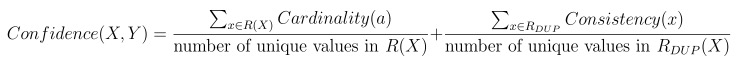
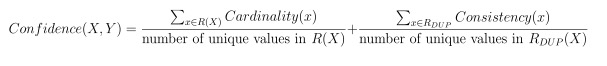
Minor fix

Changed region(s): [[0.0, 0.1212, 0.9786, 0.7879]]

diff --git a/project4/README.md b/project4/README.md
@@ -121,7 +121,7 @@ From *S*, we observe that X->Y. However, *Y->X does not hold*. This is because 3
 
 As we know that data in each of these tables could be collected from multiple sources, it is prone to errors during various stages of data acquisition and processing. However, in spite of containing some errors, it could still be the case that two attributes or sets of attributes are associated with a reasonable confidence. To accommodate such cases we define the notion of **fuzzy functional dependency** for this project. 
 
-For illustrating fuzzy functional dependency consider the following relation *R* having two attributes X and Y. We observe that *neither* X->Y nor Y->X holds in R. Further, let us define R(X) and R(Y) as attribute X and Y of relation R respectively. 
+For illustrating fuzzy functional dependency, consider the following relation *R* having two attributes X and Y. We observe that *neither* X->Y nor Y->X holds in R. Further, let us define R(X) and R(Y) as values of attribute X and Y of relation R respectively. 
 
 **Relation R**
 
@@ -139,9 +139,9 @@ For illustrating fuzzy functional dependency consider the following relation *R*
 | 7 | 16|
 
 
-Let us assume that we are interested to check if X and Y have a fuzzy functional dependency between each other in R i.e. Y is fuzzy functional dependent on X (X->Y). In this case, X is the first attribute and Y is the second attribute. 
+Let us say that we want to check if X and Y have a fuzzy functional dependency between each other in R i.e. Y is fuzzy functional dependent on X (X->Y). In this case, X is the first attribute and Y is the second attribute. 
 
-Further, let us define R<sub>DUP</sub>, while considering X->Y, as the relation obtained from R that retains all duplicates defined on the first attribute (X). We define duplicates in two ways in the context of X->Y:
+Further, let us define R<sub>DUP</sub>, while considering X->Y, as the relation obtained from R that *only* retains all duplicates defined on the first attribute (X). We define duplicates in two ways in the context of X->Y:
 	
 1. x appears multiple times with the same y : e.g. x=3 (3,3)
 2. x appears multiple times with different y's : e.g. x=1 (1,2),(1,3),(1,4), x=2 (2,3),(2,3),(2,4)
@@ -162,9 +162,9 @@ For the above shown relation R, the corresponding R<sub>DUP</sub> will be as fol
 | 3 | 3 |
 | 3 | 3 |
 
+Observe that the unique values corresponding to R(X) do not show up in R<sub>DUP</sub>.
 
-
-Let us define Cardinality(x) *for each distinct* value x of attribute R(X) *on relation R* as follows,
+Let us define Cardinality(x) *for each distinct* value x of R(X) as follows,
 
 <!---
 <img src="https://latex.codecogs.com/svg.latex?Cardinality(x)=\frac{1}{\text{number of distinct (x,y) pairs}}" /> 
@@ -174,7 +174,7 @@ Let us define Cardinality(x) *for each distinct* value x of attribute R(X) *on r
 
 For Relation *R*, Cardinality(1) = ⅓ [Presence of (1,2), (1,3), (1,4)], Cardinality(2) = ½ [Presence of (2,3), (2,4)] and Cardinality(7) = 1 [Presence of (7,16)]. We consider only the unique pairs of the form (x,y) while defining Cardinality. Further, cardinality is defined on the original relation R. 
 
-Let us define Consistency(x) *for each distinct* value x of attribute R<sub>DUP</sub>(x) as follows,
+Let us define Consistency(x) *for each distinct* value x of R<sub>DUP</sub>(x) as follows,
 
 <!---
 <img src="https://latex.codecogs.com/svg.latex?Consistency(x)=\frac{\text{maximum number of times x occurs with some y in }  R_{DUP}}{\text{total number of (x,y) pairs in }R_{DUP}}" />
@@ -187,7 +187,7 @@ For Relation *R<sub>DUP</sub>*, Consistency(1)=⅓ [1 occurs once each with 2, 3
 Using the above definitions, we compute Confidence(X,Y) as follows,          
 
 <!---
-<img src="https://latex.codecogs.com/svg.latex?Confidence(X,Y)=\frac{\sum_{x \in R(X)} Cardinality(a)}{\text{number of unique values in }R(X)}   + \frac{\sum_{x \in R_{DUP}} Consistency(x)}{\text{number of unique values in }R_{DUP}(X)}" />
+<img src="https://latex.codecogs.com/svg.latex?Confidence(X,Y)=\frac{\sum_{x \in R(X)} Cardinality(x)}{\text{number of unique values in }R(X)}   + \frac{\sum_{x \in R_{DUP}} Consistency(x)}{\text{number of unique values in }R_{DUP}(X)}" />
 --->
 
 ![](./eqn/eqn3.jpeg)
@@ -205,12 +205,12 @@ We set the threshold based on the application requirement. *For the purpose of t
 
 #### Coding Details:
 
-We have provided you with a package `functionaldependency` with the following files:
+For this problem, we have provided you with the following files:
 
-1. **src/Test.java**: Computes and prints all the pairs that have a fuzzy functional dependency on each other using jdbc.
+1. **functionaldependncy/Test.java**: Computes and prints all the pairs that have a fuzzy functional dependency on each other using jdbc.
 2. **populate-fd.sql**: Loads `functionaldependency/data.csv` into `q3db` database. 
 
-`q3db` is already populated with the dataset. You can check it using 
+Note that `q3db` is already populated with the dataset. You can check it using: 
 
 ```
 $ psql q3db
@@ -233,13 +233,13 @@ $ java -cp functionaldependency/postgresql-42.2.2.jre7.jar:. functionaldependenc
 1. Please do not modify anything else.
 
 
-##Questions to answered on ELMS
+## Questions to answered on ELMS
 			 
 Based on your understanding of fuzzy functional dependency answer the following questions: 
 
 1. A high cardinality score is assigned to ‘x’ in X if it occurs with different ‘y’ values in Y. (True or False)
 
-2. A high cardinality score is assigned to ‘x’ in X if it occurs with exactly one of the ‘y’ values multiple times. (True or False)
+2. A high cardinality score is assigned to ‘x’ in X if it occurs with exactly one ‘y’ value multiple times. (True or False)
 
 3. A high consistency score is assigned to ‘x’ in X if it occurs multiple times with a fixed ‘y1’ in Y and with possibly few other values ‘y2’ in Y. (True or False)
 
@@ -290,7 +290,7 @@ Based on your understanding of fuzzy functional dependency answer the following 
 
 6. Give an example of a dataset where the full confidence equation (with both parts) still incorrectly predicts a functional dependency that doesn’t really exist (X and Y have nothing to do with each other). Don’t give the actual dataset, just describe X and Y using similar types of descriptions as the options given above (e.g. X has 100 unique values, and is skewed in a certain way, etc.)  (open-ended text response question)
 
-7. Which of the following conditions yield the least confidence according to our formulation? 
+7. Which of the following condition yields the least confidence according to our formulation? (Only one)
 	1. 	When X is a random number drawn uniformly from a medium sized domain (e.g. 100 unique values).  Y is a random number drawn from a small domain (e.g. it is a Boolean attribute with only two possible values) and is heavily skewed (90% of all rows have the same value for this attribute). 
 	2. When X is a random number drawn uniformly from a domain of size equal to the number of rows in the table. In other words, X is mostly unique, but has a few repeats. Y is a random number drawn uniformly from a small domain (e.g. 2 unique values). 
 	3. X is a number drawn from a domain of 20 unique values. 19 of those values only appear once in the entire dataset. Every other tuple has the 20th value of X. Y is random numbers drawn from a small domain (e.g. 2 unique values) and is heavily skewed (99.9% of all rows have the same value).
